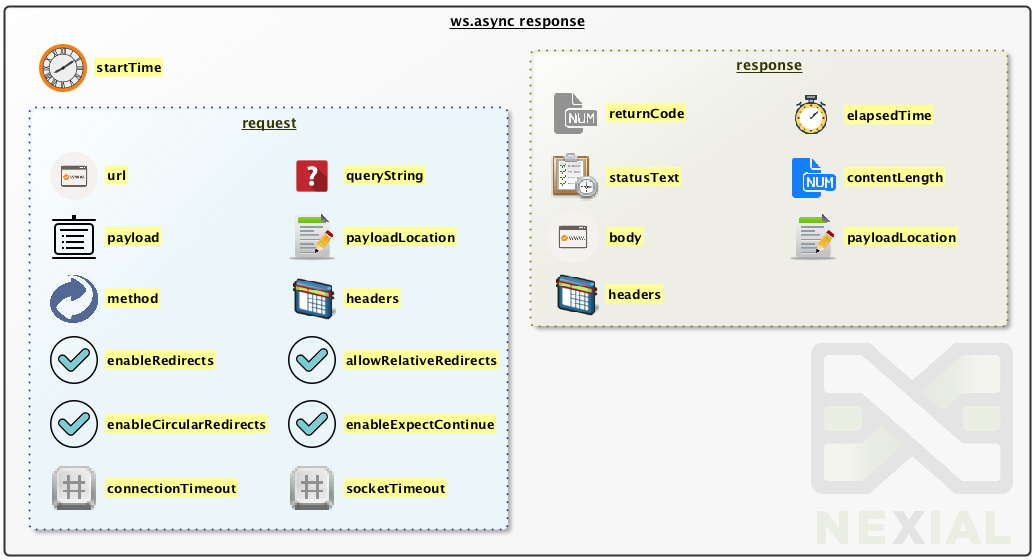
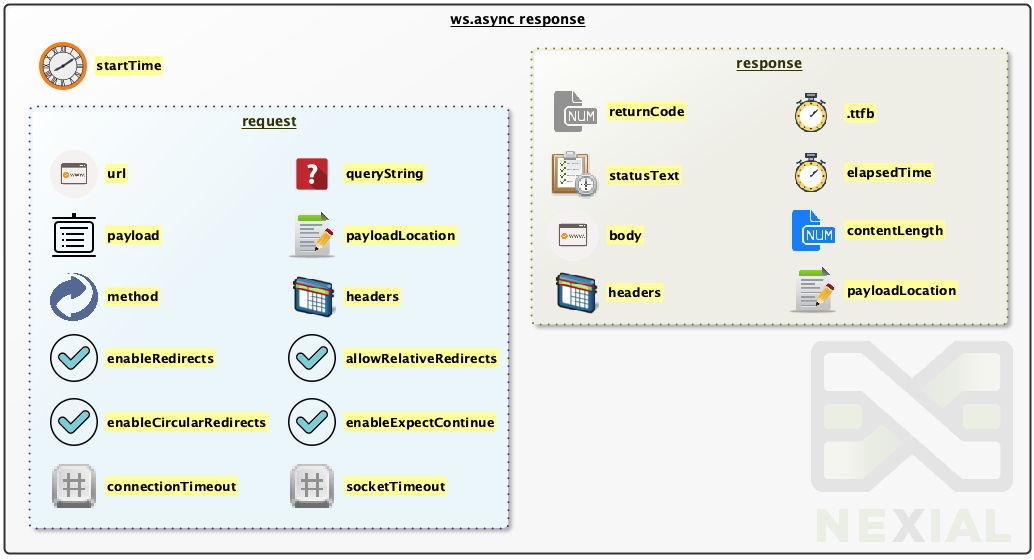
[expression] - [TEXT &raquo; `extract(beginRegex,endRegex,inclusive)`]: **NEW** operation to extract all instances of text between two regex-based patterns as a LIST expression.
[ws]
- [`nexial.ws.logDetail`]: set `true` to log the detail for each web service call.
- [`nexial.ws.logSummary`]: set `true` to log the summary of each web service call.
- code fix to parse empty cookie in response header.
- added `.ttfb` property to the response of web service call (e.g. ``${response}.ttfb`).
- added `.requestTime` property to the Response of web service call (e.g. `${response}.requestTime`).
- ensure the specified response data variable is cleared out prior to web service call, thus preventing previously derived response to be used.

diff --git a/systemvars/content.html b/systemvars/content.html
@@ -3046,6 +3046,32 @@
         </td>
     </tr>
     <tr>
+        <td nowrap="nowrap" class="varname">
+            <a id="nexial.ws.logDetail"><code>nexial.ws.logDetail</code></a>
+        </td>
+        <td>boolean</td>
+        <td>false</td>
+        <td>false</td>
+        <td>
+            When set to <code>true</code> (default is <code>false</code>), Nexial will record the request and response
+            detail for each API call made via <a href="../commands/ws">ws</a> commands. See the
+            <a href="../commands/ws/index#Logging"><code>ws</code> Logging</a> section for more details.
+        </td>
+    </tr>
+    <tr>
+        <td nowrap="nowrap" class="varname">
+            <a id="nexial.ws.logSummary"><code>nexial.ws.logSummary</code></a>
+        </td>
+        <td>boolean</td>
+        <td>false</td>
+        <td>false</td>
+        <td>
+            When set to <code>true</code> (default is <code>false</code>), Nexial will record summary information for
+            each API call made via <a href="../commands/ws">ws</a> commands. See the
+            <a href="../commands/ws/index#Logging"><code>ws</code> Logging</a> section for more details.
+        </td>
+    </tr>
+    <tr>
         <td class="highlight-section" colspan="5">
             <span>For desktop-based (<a href="../commands/desktop"><code>desktop</code></a> commands) testing only.</span>
         </td>

diff --git a/release/nexial-core-v2.8.changelog.md b/release/nexial-core-v2.8.changelog.md
@@ -37,6 +37,8 @@ as much of the actual content as possible in output file.
 ### [Nexial Expression](../expressions)
 - [JSON &raquo; `keys(jsonpath)`](../expressions/JSONexpression#keysjsonpath): code fix to extract JSON keys correctly. 
 - [JSON &raquo; `pack`](../expressions/JSONexpression#pack): code fix to enforce JSON beautification after "packing".
+- [TEXT &raquo; `extract(beginRegex,endRegex,inclusive)`](../expressions/TEXTexpression#extractbeginregexendregexinclusive): 
+  **NEW** operation to extract all instances of text between two regex-based patterns as a LIST expression.
 
 
 ### [base commands](../commands/base)
@@ -63,6 +65,15 @@ as much of the actual content as possible in output file.
 
 
 ### [ws commands](../commands/ws)
+- [`nexial.ws.logDetail`](../systemvars/index#nexial.ws.logDetail): set `true` to log the detail for each web service
+  call.
+- [`nexial.ws.logSummary`](../systemvars/index#nexial.ws.logSummary): set `true` to log the summary of each web service
+  call.
+- code fix to parse empty cookie in response header.
+- added `.ttfb` property to the response of web service call (e.g. ``${response}.ttfb`).
+- added `.requestTime` property to the Response of web service call (e.g. `${response}.requestTime`).
+- ensure the specified response data variable is cleared out prior to web service call, thus preventing previously 
+  derived response to be used.
 
 
 ### [web commands](../commands/web)
@@ -72,4 +83,4 @@ as much of the actual content as possible in output file.
 - [`saveSelectedValue(var,locator)`](../commands/web/saveSelectedValue(var,locator)): **NEW** command store the value
  (equivalent to the "value" attribute) of selected option from `single select or multi-select` element.
 - [`nexial.browser.userData`](../systemvars/index#nexial.browser.userData): **NEW** System variable to specify browser 
-  profile directory. 
+  profile directory.

diff --git a/commands/ws/index.md b/commands/ws/index.md
@@ -63,6 +63,18 @@ Each cookie contains the following property:
 The status code (`${var}.returnCode`) and status text (`${var}.statusText) are equivalent, except the former is the 
 numeric value of a response return code.
 
+
+### Logging
+            If set to <code>true</code> (default is <code>false</code>), Nexial will record the request and response
+            detail for each API call made via <a href="../commands/ws">ws</a> commands. This request and response
+            detail may be helpful towards troubleshooting or further automation. The detail is written to a file in the
+            output directory and linked to the corresponding test step. For example:<br/>
+            <br/>
+            <b>Data File:</b><br/>
+            <img src="images/nexi">
+            <b>Script:</b>
+
+
 For more information about HTTP status codes, refer to
 <a href="https://httpstatuses.com/" class="external-link" target="_nexial_external">https://httpstatuses.com/</a> and 
 <a href="https://www.restapitutorial.com/httpstatuscodes.html" class="external-link" target="_nexial_external">https://www.restapitutorial.com/httpstatuscodes.html</a>.

diff --git a/expressions/TEXTexpression.md b/expressions/TEXTexpression.md
@@ -162,6 +162,13 @@ Output:<br/>
 
 -----
 
+#### **`extract(beginRegex,endRegex,inclusive)`**
+Extract from current text all instances of text found between `beginRegex` and `endRegex`. Both `beginRegex` and 
+`endRegex` are regular expressions. Set `inclusive` as `true` to include the text that matches `beginRegex` and 
+`endRegex`. This operation effectively transforms current TEXT expression into a [`LIST`](LISTexpression) expression.
+
+-----
+
 #### **`insert(after,text)`**
 Search for `after` in text, and if found, add the specified text to it.  If `after` is not found, no changes will be 
 made to text.
@@ -169,6 +176,7 @@ made to text.
 **Example**<br/>
 Chain up a `remove` and a `insert`. In this example, after removing the word "all", insert operation will insert 
 "each and every" after the word "for".<br/>
+
 Script:<br/>
 ![script](image/TEXTexpression_26.png)
 
